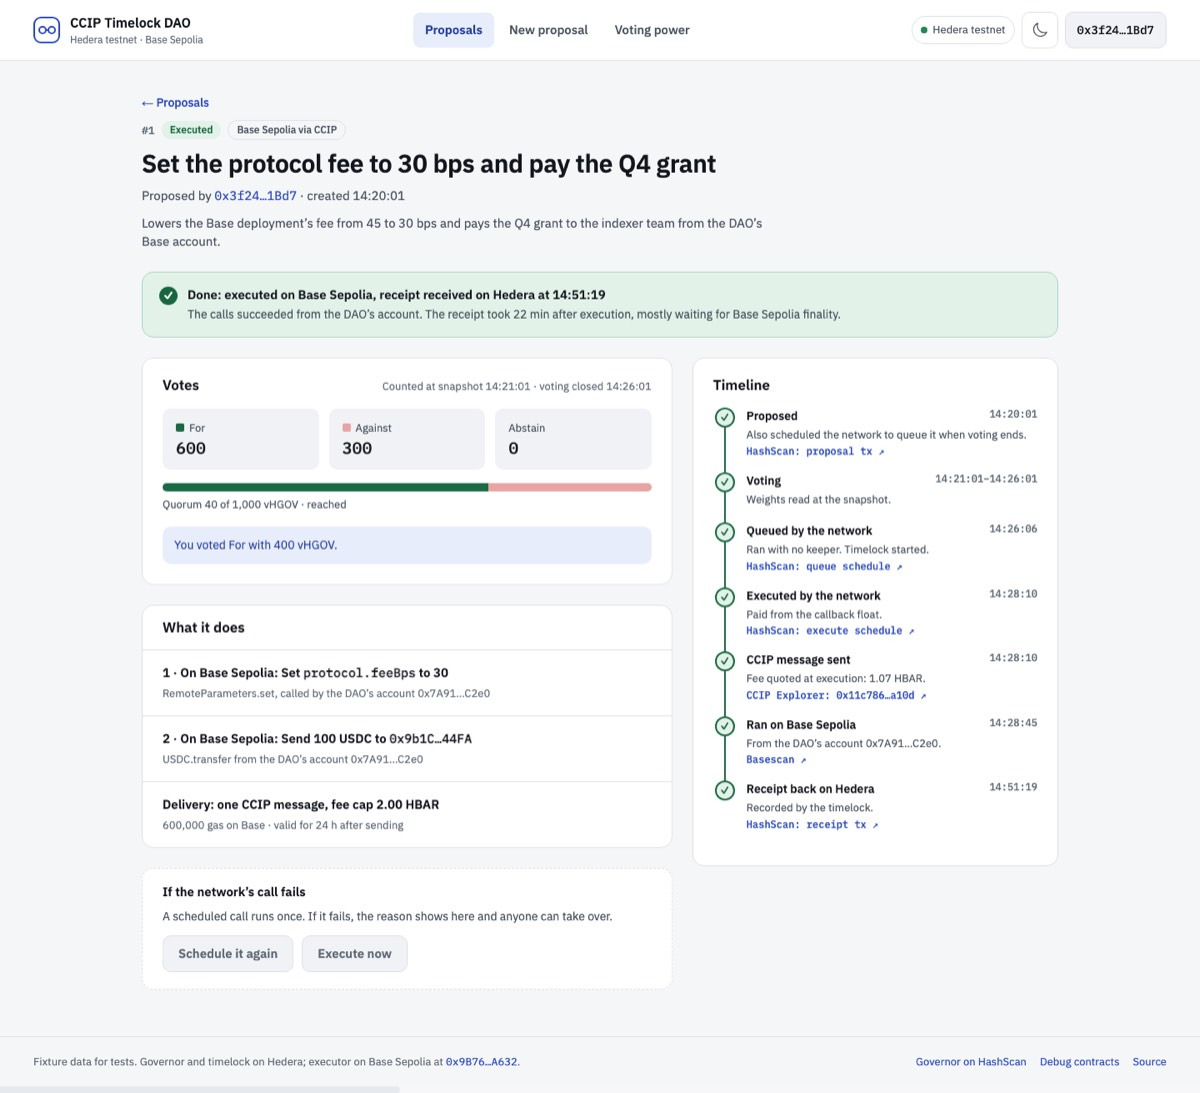
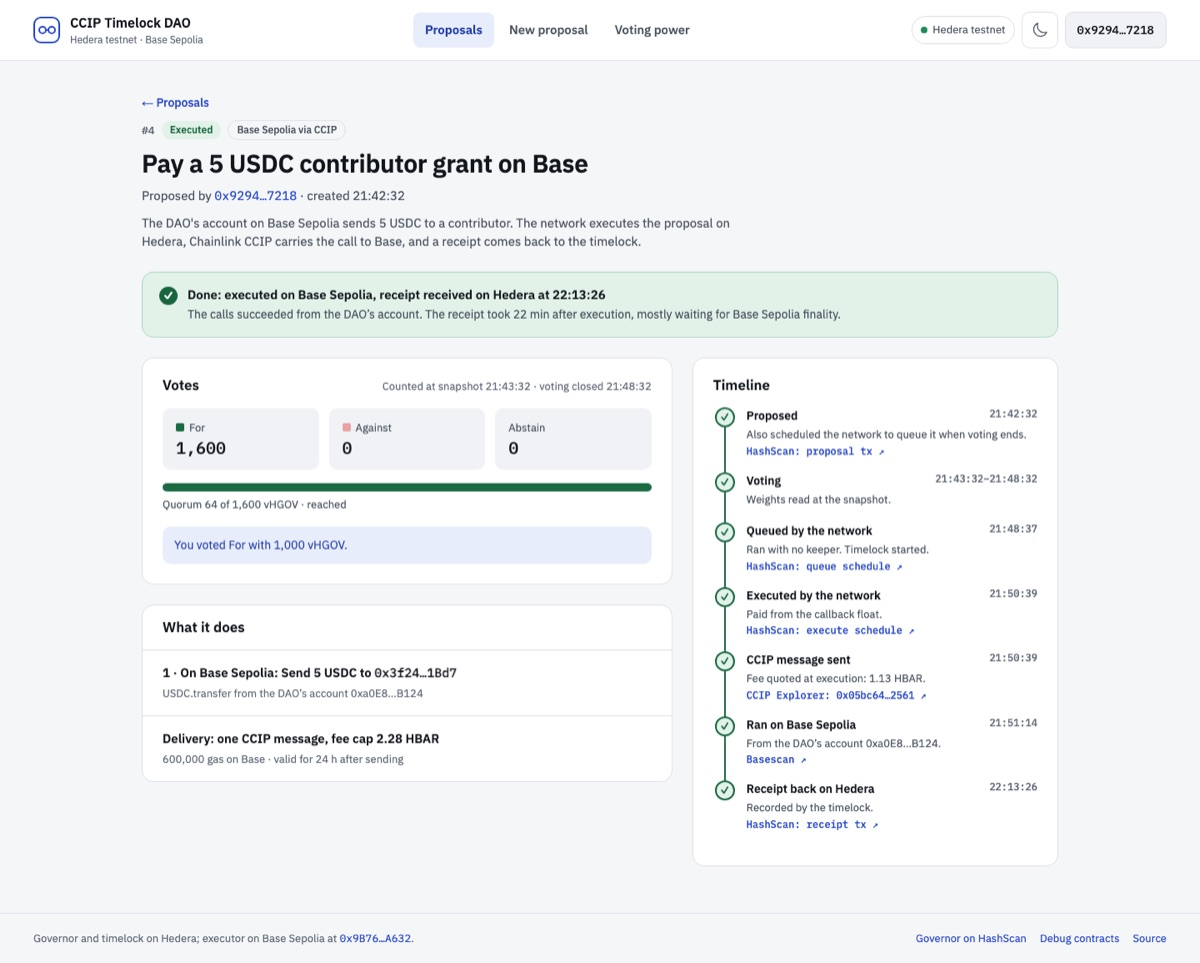
Record the testnet governance run and show the live DAO
PROOFS.md lists every transaction, schedule and CCIP message of the
official DAO: deployment, two voters' setup, and four proposals run
through the app (a Hedera-only payment, a fee cap that stopped an
execution, a parameter on Base Sepolia, a 5 USDC payout), with both
receipts back on Hedera. check:proofs now also asserts what each link
proves (events, the FeeAboveCap revert, the USDC Transfer), 74 links.

The README gains the live DAO and how to use it with only testnet HBAR;
costs.md adds the official run's measurements; the doc screenshots are
now of the live DAO. Step notes that confirm something are no longer
styled as warnings.

diff --git a/packages/nextjs/components/dao/pages/VotingPowerPage.tsx b/packages/nextjs/components/dao/pages/VotingPowerPage.tsx
@@ -19,6 +19,7 @@ function Step({
   title,
   body,
   note,
+  noteTone,
   children,
 }: {
   n: number;
@@ -26,6 +27,8 @@ function Step({
   title: string;
   body: string;
   note?: string;
+  /** "wait" marks a note about something the voter has to wait for; others are plain confirmations. */
+  noteTone?: "wait";
   children?: ReactNode;
 }) {
   const done = state === "done" || state === "optional";
@@ -42,7 +45,7 @@ function Step({
         <div className="setup-step-text">
           <span className="setup-step-title">{title}</span>
           <span className="setup-step-body">{body}</span>
-          {note && <span className="setup-step-note">{note}</span>}
+          {note && <span className={`setup-step-note${noteTone === "wait" ? " wait" : ""}`}>{note}</span>}
         </div>
       </div>
       {children}
@@ -176,6 +179,7 @@ function Steps({ voter }: { voter: VoterStatus }) {
           state={shown[1]}
           title={`Claim ${formatGov(voter.claimAmount, 0)} ${GOV_SYMBOL}`}
           body={`Testnet faucet: one claim per account every ${formatDuration(voter.claimCooldown)}.`}
+          noteTone="wait"
           note={
             coolingDown
               ? `Claimed at ${formatWhen(voter.lastClaimAt, now)}. Next claim from ${formatWhen(nextClaim, now)} (faucet cooldown, read from the contract).`

diff --git a/packages/nextjs/styles/dao.css b/packages/nextjs/styles/dao.css
@@ -805,9 +805,12 @@ textarea.dinput {
   font-size: 14px;
 }
 .setup-step-note {
-  color: var(--warn);
+  color: var(--ink2);
   font-size: 13px;
   font-weight: 500;
+}
+.setup-step-note.wait {
+  color: var(--warn);
 }
 .setup-step-action {
   align-self: center;

diff --git a/PROOFS.md b/PROOFS.md
@@ -1,0 +1,117 @@
+# Proofs
+
+Everything below happened on Hedera testnet and Base Sepolia on 2 October 2026, through this repository's app and contracts: one DAO, two voters, four proposals. Each proposal was queued and executed by the Hedera network itself (HIP-1215 scheduled calls); no keeper, bot or second transaction was involved after the votes.
+
+`npm run check:proofs` re-verifies every link in this file, and CI runs it on every push and once a day. Links that prove a specific effect (an event, a revert reason, a token transfer) are checked for it too; the expectations live in [`docs/proofs.json`](docs/proofs.json).
+
+## The DAO
+
+| Contract | Address |
+|---|---|
+| `DaoGovernor` | [0x7d1e2fa702d137b019c44b9a562e04dd89cf7468](https://hashscan.io/testnet/contract/0x7d1e2fa702d137b019c44b9a562e04dd89cf7468) |
+| `DaoTimelock` (treasury, CCIP outbox and inbox) | [0xa895bf23411339f0bc19ee7859be455dcfb57d18](https://hashscan.io/testnet/contract/0xa895bf23411339f0bc19ee7859be455dcfb57d18) |
+| `VoteToken` (vHGOV) | [0x12a964056dbc26ad3206f03191daa7cf5d8c6bfa](https://hashscan.io/testnet/contract/0x12a964056dbc26ad3206f03191daa7cf5d8c6bfa) |
+| `GovTokenFaucet` | [0xc3467144fea2d32329cb42d95e5190355834749a](https://hashscan.io/testnet/contract/0xc3467144fea2d32329cb42d95e5190355834749a) |
+| HGOV (HTS token 0.0.10822898) | `0x0000000000000000000000000000000000A524F2` |
+| The DAO's account on Base Sepolia | [0xa0E81699e1BC4f571d90A941b01420796192B124](https://sepolia.basescan.org/address/0xa0E81699e1BC4f571d90A941b01420796192B124) |
+| Shared `CrossChainExecutor` on Base Sepolia | [0x9b7691b0766a55d8509b07cb633ce281fee2a632](https://sepolia.basescan.org/address/0x9b7691b0766a55d8509b07cb633ce281fee2a632) |
+
+Settings: 1 minute voting delay, 5 minute vote, 2 minute timelock, 4% quorum; callback gas limits 3,000,000 (queue) and 1,500,000 (execute).
+
+### Deployment
+
+From `0x92947b03E93c5c9517A573Ca4270794fBE407218`, with `npm run foundry:deploy:hedera`:
+
+| Step | Transaction |
+|---|---|
+| Deploy `GovTokenFaucet` | [0x0acd35c2…](https://hashscan.io/testnet/transaction/0x0acd35c21e7d6e641cf9e85a8ca01ffacebe8ca0eccfa856085c12640a42c0ef) |
+| Create the HGOV HTS token | [0xef94c444…](https://hashscan.io/testnet/transaction/0xef94c444f1d5774e8e9bd78a66766f045e46805ae4ac9daa182493535a478ae7) |
+| Deploy `VoteToken` | [0x8e23a308…](https://hashscan.io/testnet/transaction/0x8e23a308512e404455949407fcbc339848b718718c5bc3fc9ad25203608fa5ee) |
+| Associate `VoteToken` with HGOV | [0x09f799f4…](https://hashscan.io/testnet/transaction/0x09f799f42f6b2dc2853ddd922e7b560da7eba4d2986d2526e3d383c082299e96) |
+| Deploy `DaoTimelock` | [0x9f9317df…](https://hashscan.io/testnet/transaction/0x9f9317dfff44d8c94932d6c35bbd671fffcda46acebe7abe48711916100188a9) |
+| Deploy `DaoGovernor` | [0x620a1640…](https://hashscan.io/testnet/transaction/0x620a1640ce9b756baa4ac6e90bc101828e7fab3521cb527c38dd3e0a3127218f) |
+| Governor may propose | [0x29c0f094…](https://hashscan.io/testnet/transaction/0x29c0f094ab47243bbd2f6e7db804eb93f9bf9fd9babfec369d16f306a60b5ac4) |
+| Governor may cancel | [0x3851b701…](https://hashscan.io/testnet/transaction/0x3851b70193dbdb3cc5c6736563dff9c52b507bc4cc5cc4c71981ffb21680aae3) |
+| Register the Base Sepolia executor | [0x35632a0d…](https://hashscan.io/testnet/transaction/0x35632a0df35f5303638286d50f93f1e9984e5e62ef625311ee9aa0ab6eeae670) |
+| Associate the treasury with HGOV | [0xd98d67eb…](https://hashscan.io/testnet/transaction/0xd98d67eb73412de83eaba347190e08967ffd03a5b3f510cc2ceb71142c2818f5) |
+| Fund the callback float (15 HBAR) | [0xfc58fc46…](https://hashscan.io/testnet/transaction/0xfc58fc46eb4083de7d9e24e4e61733330277bc370a957d0cd3d3c1e97e08e791) |
+| Fund the treasury (20 HBAR) | [0x18a97f32…](https://hashscan.io/testnet/transaction/0x18a97f32bad66b5faa81545737ae398606cff7e385d0e7cc2ca1ed2c5e269d87) |
+| Deployer renounces the admin role | [0x71d7e751…](https://hashscan.io/testnet/transaction/0x71d7e7510d9e5449bd7785840486c9d1c54b789404c6178f953804d50f96eb45) |
+
+### Voting power
+
+Two voters, each through the app's *Voting power* page. Both accounts associate with new tokens automatically, so neither needed the association step.
+
+| Step | Voter A `0x9294…7218` (1,000 vHGOV) | Voter B `0x3f24…1Bd7` (600 vHGOV) |
+|---|---|---|
+| Claim 1,000 HGOV | [0xe6964a49…](https://hashscan.io/testnet/transaction/0xe6964a492ea01949d92e4e3e68d3ac029f82b9a975c03ae73d3a6aa76b90e4ac) | [0xd2a94d55…](https://hashscan.io/testnet/transaction/0xd2a94d55f75f78081f0f976bccb1d5b59063f26374e6a8e49841394dd9c29152) |
+| Approve | [0xc67b4f04…](https://hashscan.io/testnet/transaction/0xc67b4f0428aeabb76cc78fc26c55317b3f9404f34fca81f364403d8a3d6c0b23) | [0x22ff32bc…](https://hashscan.io/testnet/transaction/0x22ff32bccdfbd64e8427833652fa352ee8a788c3a84ca519a8987cf105107388) |
+| Wrap | [0x9ec7aca7…](https://hashscan.io/testnet/transaction/0x9ec7aca7cc6a1f968e5231e5466f993e67461d77d523499738faa46e5d65e859) | [0x42789ca0…](https://hashscan.io/testnet/transaction/0x42789ca0240ba4852b5147a1f9398c81775ee572b72ff19f28b1430c2e02f647) |
+| Delegate to self | [0xe743de65…](https://hashscan.io/testnet/transaction/0xe743de653ed6705e6849251d7f5a290eb5cd6374a039c2eca46369cd5adafb98) | [0x68fd0786…](https://hashscan.io/testnet/transaction/0x68fd07863ff07314dcc6a49d768d36b36b078288afca9c71032de3e3fde1dac9) |
+
+Voter A proposed all four proposals; both voted For on each.
+
+## Proposal 1: a Hedera-only payment
+
+*Pay a 2 HBAR contributor grant.* The treasury sends 2 HBAR on Hedera.
+
+| Step | Proof |
+|---|---|
+| Proposed (also scheduled the network to queue it) | [0x589a6ec3…](https://hashscan.io/testnet/transaction/0x589a6ec395edade6c41861da56502c9536ab85d0418e3dc5af6baec58f2c0249) |
+| Votes: A, B | [0xa4620fb2…](https://hashscan.io/testnet/transaction/0xa4620fb2de2c103a8057108eb85f8eae7b6a4b6feab5a24e07ba832c3cd57026), [0x9818260c…](https://hashscan.io/testnet/transaction/0x9818260cda97f6467a9e0f684d87706cc82780b2b398748c2e6a2de086673aa4) |
+| The network queued it, 5 s after voting ended | [schedule 0.0.10823011](https://hashscan.io/testnet/schedule/0.0.10823011) |
+| The network executed it, 4 s after the timelock ended | [schedule 0.0.10823075](https://hashscan.io/testnet/schedule/0.0.10823075) |
+
+## Proposal 2: the fee cap stops an execution
+
+*Set protocol.maxSlippageBps with a fee cap below the quote.* The proposal allows at most 0.50 HBAR for the CCIP fee; the router quoted 1.138 HBAR when it executed.
+
+| Step | Proof |
+|---|---|
+| Proposed | [0xe2015350…](https://hashscan.io/testnet/transaction/0xe2015350578a9c4553b1b5c9394de14f3cc1e5d55ba87ff7769344426126b1d1) |
+| Votes: A, B | [0xe12bf54c…](https://hashscan.io/testnet/transaction/0xe12bf54c87deeab3be90de9c1c93562b6f4f483387667a1731e34685479ff104), [0xc374cec1…](https://hashscan.io/testnet/transaction/0xc374cec1bbb4f5bb606ba18f282bdf620ac040856a4ac804b097caee8dba8b48) |
+| The network queued it | [schedule 0.0.10823129](https://hashscan.io/testnet/schedule/0.0.10823129) |
+| The network's execution stopped: `AutoActionFailed` carrying `FeeAboveCap(113801892, 50000000)`. Nothing left the treasury and the proposal stays queued. | [schedule 0.0.10823188](https://hashscan.io/testnet/schedule/0.0.10823188) |
+
+On the proposal's page, *Execute now* then showed "the CCIP fee was 1.13 HBAR, above the 0.50 HBAR cap this proposal allows" and sent nothing: the app estimates every transaction first and refuses one that would revert with a reason the DAO's contracts define.
+
+## Proposal 3: a parameter on Base Sepolia
+
+*Set the Base protocol fee to 30 bps.* The DAO's account on Base calls `RemoteParameters.set("protocol.feeBps", 30)`.
+
+| Step | Proof |
+|---|---|
+| Proposed | [0x2f3ccd3b…](https://hashscan.io/testnet/transaction/0x2f3ccd3b4908d5459a16874c21be4e305cbc335e1a605cd09abfcc91ff3c2de6) |
+| Votes: A, B | [0x8db8db67…](https://hashscan.io/testnet/transaction/0x8db8db6767579ddc4ac1828ce1deeaa30c97f51c9f3ed4cb89c0ecca2c603dc9), [0x45398744…](https://hashscan.io/testnet/transaction/0x453987445d15f5db665a6461eaa6a12f67da26c9e4cb5515db67aefc81e4df0f) |
+| The network queued it | [schedule 0.0.10823152](https://hashscan.io/testnet/schedule/0.0.10823152) |
+| The network executed it and sent one CCIP message (fee 1.138 HBAR, quoted then) | [schedule 0.0.10823215](https://hashscan.io/testnet/schedule/0.0.10823215) |
+| CCIP delivered it to Base Sepolia, 32 s later | [message 0x6149f6c7…](https://ccip.chain.link/msg/0x6149f6c7ca36d269662cc089d5a9fe21ebd0107014733d99841531bcc4cb8639) |
+| The DAO's account set `protocol.feeBps` to 30, and the executor sent a receipt paid from that account | [Base tx 0x68d095ac…](https://sepolia.basescan.org/tx/0x68d095ac6568d6c08ebfecae780cb76229e68154ca1b7591d1524a766e637886) |
+| The receipt travelled back after Base Sepolia finality | [message 0xcd76f3d0…](https://ccip.chain.link/msg/0xcd76f3d0087c761a8e6a0bdb9885808be78bf718a0a33d4ec930e813ee4e6d4a) |
+| The timelock recorded it (`CrossChainReceipt`, Executed), 23 min 53 s after the call ran on Base | [0xbb278a03…](https://hashscan.io/testnet/transaction/0xbb278a037e6560ed33a25787357b55a38c0c01ecd5731bf79b236c7011349bcd) |
+
+## Proposal 4: a USDC payout on Base Sepolia
+
+*Pay a 5 USDC contributor grant on Base.* The DAO's account on Base transfers 5 USDC (Circle's testnet USDC) to `0x3f24…1Bd7`.
+
+| Step | Proof |
+|---|---|
+| Proposed | [0xa6077ed2…](https://hashscan.io/testnet/transaction/0xa6077ed25d1c3ba87e959c0f700715013d343e9a78456002075ef89c00d7866d) |
+| Votes: A, B | [0x9448cba4…](https://hashscan.io/testnet/transaction/0x9448cba4f9ab429b48df588be3d4355e7e464ee4e33fd1fd359c0dde9d5ec9f2), [0xd219926d…](https://hashscan.io/testnet/transaction/0xd219926d314d164d8a5e02bf8f4351b485ab87ae8a7221f0fa9cee4d6d528b88) |
+| The network queued it | [schedule 0.0.10827814](https://hashscan.io/testnet/schedule/0.0.10827814) |
+| The network executed it and sent one CCIP message (fee 1.139 HBAR) | [schedule 0.0.10827874](https://hashscan.io/testnet/schedule/0.0.10827874) |
+| CCIP delivered it to Base Sepolia, 35 s later | [message 0x05bc641e…](https://ccip.chain.link/msg/0x05bc641e81a835af93504dc180ddd7e5d1c781399690135c59c9583ddb8f2561) |
+| 5 USDC moved from the DAO's account to the recipient; receipt paid from the DAO's account | [Base tx 0xc13c775b…](https://sepolia.basescan.org/tx/0xc13c775bb0a5a525ae96eb5f6dc320a83c10bf5a3cc40ea6998e13af8c988875) |
+| The receipt travelled back after Base Sepolia finality | [message 0xc929a98e…](https://ccip.chain.link/msg/0xc929a98e93acb1aae7bb8f8d623efed14e25dae21577ff52f02b87716510b0a3) |
+| The timelock recorded it (`CrossChainReceipt`, Executed), 22 min 12 s after the call ran on Base | [0x495b93a6…](https://hashscan.io/testnet/transaction/0x495b93a602034d7b68c75c81f14f7a411fe058070a80ad2aeb37d0cd270aa1d8) |
+
+## What the runs measured
+
+| | Proposal 3 | Proposal 4 |
+|---|---|---|
+| Voting ended → queued by the network | 5 s | 5 s |
+| Timelock ended → executed by the network | 4 s | 4 s |
+| Executed on Hedera → ran on Base Sepolia | 32 s | 35 s |
+| Ran on Base → receipt recorded on Hedera | 23 min 53 s | 22 min 12 s |
+
+The receipt leg is almost all Base Sepolia finality, which ran 23–25 minutes behind its latest block during these runs; CCIP itself took 19–40 s after finality. Gas and HBAR for every step are in [Costs](docs/costs.md).

diff --git a/README.md b/README.md
@@ -6,22 +6,30 @@ A [Scaffold-HBAR](https://github.com/hedera-dev/create-scaffold-hbar) template f
 - **No keeper.** Creating a proposal asks the Hedera Schedule Service (HIP-1215) to call the governor back when voting ends; that call queues the proposal and schedules the one that executes it when the timelock ends. If a scheduled call fails, anyone can finish the job from the app.
 - **Cross-chain actions with receipts.** A proposal can include calls on Base Sepolia. They travel in one Chainlink CCIP message, run from the DAO's own account there, and a receipt comes back to Hedera saying whether they ran. The CCIP fee is quoted at execution and capped by the vote.
 
-![Proposals page: five proposals in different states, with treasury, callback float, the DAO's Base account and the rules](docs/img/proposals.jpg)
+![Proposals page of the testnet DAO: a USDC payout and a parameter change on Base Sepolia, both with receipts back on Hedera, a proposal held by its fee cap, and a Hedera-only payment](docs/img/proposals.jpg)
 
-*Screens from the end-to-end tests (fixture data). [Every page and state](docs/frontend.md) is tested at 1440 and 390 px in light and dark.*
-
-> **Status:** in development for the Scaffold-HBAR template bounty. Contracts, tests, the frontend and CI are done, and the shared executor is live on Base Sepolia. The pre-deployed testnet DAO and its recorded governance run are next.
+*The live testnet DAO ([PROOFS.md](PROOFS.md)). [Every page and state](docs/frontend.md) is also tested with fixture data at 1440 and 390 px in light and dark.*
 
 ## Live on testnet
 
-Shared by every DAO made from this template (verified on Sourcify):
+A DAO made from this template runs on Hedera testnet, and a freshly scaffolded project opens it: `packages/nextjs/contracts/daoDeployment.ts` points at it until you deploy your own.
+
+| Hedera testnet | Address |
+|---|---|
+| `DaoGovernor` | [0x7d1e2fa702d137b019c44b9a562e04dd89cf7468](https://hashscan.io/testnet/contract/0x7d1e2fa702d137b019c44b9a562e04dd89cf7468) |
+| `DaoTimelock` (treasury) | [0xa895bf23411339f0bc19ee7859be455dcfb57d18](https://hashscan.io/testnet/contract/0xa895bf23411339f0bc19ee7859be455dcfb57d18) |
+| `VoteToken` (vHGOV) | [0x12a964056dbc26ad3206f03191daa7cf5d8c6bfa](https://hashscan.io/testnet/contract/0x12a964056dbc26ad3206f03191daa7cf5d8c6bfa) |
+| HGOV | HTS token `0.0.10822898` |
 
 | Base Sepolia | Address |
 |---|---|
-| `CrossChainExecutor` | [0x9B7691B0766A55D8509b07Cb633Ce281feE2A632](https://sepolia.basescan.org/address/0x9B7691B0766A55D8509b07Cb633Ce281feE2A632) |
-| `RemoteParameters` | [0x5f8b11a830ce09d87fA586c95e7C85FA57691cd9](https://sepolia.basescan.org/address/0x5f8b11a830ce09d87fA586c95e7C85FA57691cd9) |
+| The DAO's account | [0xa0E81699e1BC4f571d90A941b01420796192B124](https://sepolia.basescan.org/address/0xa0E81699e1BC4f571d90A941b01420796192B124) |
+| `CrossChainExecutor`, shared by every DAO from this template (verified on Sourcify) | [0x9B7691B0766A55D8509b07Cb633Ce281feE2A632](https://sepolia.basescan.org/address/0x9B7691B0766A55D8509b07Cb633Ce281feE2A632) |
+| `RemoteParameters`, shared demo target | [0x5f8b11a830ce09d87fA586c95e7C85FA57691cd9](https://sepolia.basescan.org/address/0x5f8b11a830ce09d87fA586c95e7C85FA57691cd9) |
 
-The pre-deployed Hedera DAO and a recorded run of its full governance loop will be listed here. CI re-checks every on-chain link in these docs daily (`npm run check:proofs`).
+[PROOFS.md](PROOFS.md) records four proposals run through the app by two voters, each queued and executed by the network with no keeper: a Hedera-only payment, a fee cap that stopped an execution, a parameter set on Base Sepolia, and a 5 USDC payout from the DAO's Base account, both with their receipts back on Hedera. CI re-checks every on-chain link in these docs daily (`npm run check:proofs`).
+
+**Try it with only Hedera testnet HBAR.** Scaffold the template ([Quick start](#quick-start)) and follow [Take part with a testnet wallet](#take-part-with-a-testnet-wallet). The DAO pays for the network's queue and execute calls and for CCIP fees; you pay about 3 HBAR of gas for the whole run. One faucet claim of 1,000 vHGOV passes a proposal on its own while fewer than 25,000 vHGOV exist (quorum is 4%).
 
 ## Quick start
 

diff --git a/docs/costs.md b/docs/costs.md
@@ -63,7 +63,7 @@ Every callback measured, each run once by the network with no keeper:
 | *Schedule it again* | 1,495,029 | 1.24 |
 | *Execute now* (an HBAR transfer and one Base action) | 465,311 | 0.39, plus the CCIP fee from the treasury |
 
-Setting up and taking part once (claim, approve, wrap, delegate, propose, vote) spends about 2.8 HBAR, or 3.4 with an association. The relay also wants each transaction's `gasLimit × eth_gasPrice` on hand when it is sent; for a proposal that is about 2.1 HBAR. **About 10 HBAR covers every step** with room to spare.
+Setting up and taking part once (claim, approve, wrap, delegate, propose, vote) spends about 2.8 HBAR, or 3.4 with an association. On the official DAO it cost voter A 2.73 HBAR ([PROOFS.md](../PROOFS.md)). The relay also wants each transaction's `gasLimit × eth_gasPrice` on hand when it is sent; for a proposal that is about 2.1 HBAR. **About 10 HBAR covers every step** with room to spare.
 
 ## What a proposal costs the DAO
 
@@ -73,10 +73,23 @@ For a proposal with one action on Base Sepolia:
 |---|---|---:|
 | Float | Queue callback | 1.33 |
 | Float | Execute callback, including the CCIP send | 0.39 |
-| Treasury | CCIP fee to Base Sepolia, quoted at execution | 1.13–1.17 measured |
-| The DAO's account on Base | Receipt back to Hedera | 0.0000593 ETH ([ReceiptSent](https://sepolia.basescan.org/tx/0xf71f51a3004a236b302da643b780033ecea278cd9eeb658518e4c72dcff14e66)) |
+| Treasury | CCIP fee to Base Sepolia, quoted at execution | 1.14–1.17 measured |
+| The DAO's account on Base | Receipt back to Hedera | 0.000058–0.000059 ETH ([ReceiptSent](https://sepolia.basescan.org/tx/0xf71f51a3004a236b302da643b780033ecea278cd9eeb658518e4c72dcff14e66)) |
 
 A Hedera-only proposal costs the float 1.33 + 0.09 HBAR and no CCIP fee. A callback refused for a short float costs it 0.0272 HBAR. The executor on Base pays the receipt from the DAO's account when it holds enough ETH, otherwise from its sponsor pool (ten receipts per DAO).
+
+## Measured again on the official DAO
+
+The DAO in [PROOFS.md](../PROOFS.md) runs with the default limits (3,000,000 and 1,500,000). Its callbacks used the same gas as the test DAO's, and each was billed exactly gas used × 81 tinybar, the price that day:
+
+| Proposal | Queue callback | Execute callback | CCIP fee (treasury) | Receipt fee (DAO's Base account) |
+|---|---:|---:|---:|---:|
+| 1. Hedera-only payment | 1,602,335 gas | 108,205 gas | none | none |
+| 2. Fee cap below the quote | 1,609,952 gas | 200,018 gas, stopped by `FeeAboveCap` | not charged | none |
+| 3. Parameter on Base | 1,609,844 gas | 465,700 gas | 1.138 HBAR | 0.0000579 ETH |
+| 4. 5 USDC payout on Base | 1,609,928 gas | 465,784 gas | 1.139 HBAR | 0.0000587 ETH |
+
+Its deployment cost 21.73 HBAR in gas and fees, plus the 35 HBAR of default float and treasury funding.
 
 ## Deploying a DAO
 

diff --git a/docs/frontend.md b/docs/frontend.md
@@ -9,7 +9,7 @@
 | Proposal | `/proposals/<id>` | Votes and your voting power at the snapshot, the decoded actions, a timeline with HashScan, CCIP explorer and Basescan links, and the fallback actions (Queue now, Execute now, Schedule it again). |
 | Voting power | `/voting-power` | Associate, claim, wrap (with an amount) and delegate (to yourself or another address), plus balances and unwrap. |
 
-![A proposal whose Base calls ran and whose receipt came back to Hedera](img/proposal-done.jpg)
+![A proposal on the testnet DAO that paid 5 USDC from the DAO's account on Base Sepolia, with every step linked and the receipt back on Hedera](img/proposal-done.jpg)
 
 ## States
 
@@ -36,7 +36,7 @@ Each proposal's state comes from `lib/dao/derive.ts`, which reads raw records: t
 | Quorum not reached | Defeated, and For + Abstain is below quorum at the snapshot | How many votes counted and how many were needed |
 | Cancelled | Canceled | When, and that the pending queue call was deleted |
 
-![The Voting power page: associate done, claim next, then wrap with an amount and delegate to yourself or someone else](img/voting-power.jpg)
+![The Voting power page on the testnet DAO: association not needed, the faucet in its cooldown, 400 HGOV still to wrap, and votes delegated to self](img/voting-power.jpg)
 
 The Voting power page has its own states: HGOV not associated (and no free automatic-association slot), association not needed, faucet claimed within its cooldown (the next claim time is read from the contract), wrapped but not delegated, and no Hedera account yet. Every page handles no wallet, the wrong network (with a switch button), and no DAO deployed yet.
 
